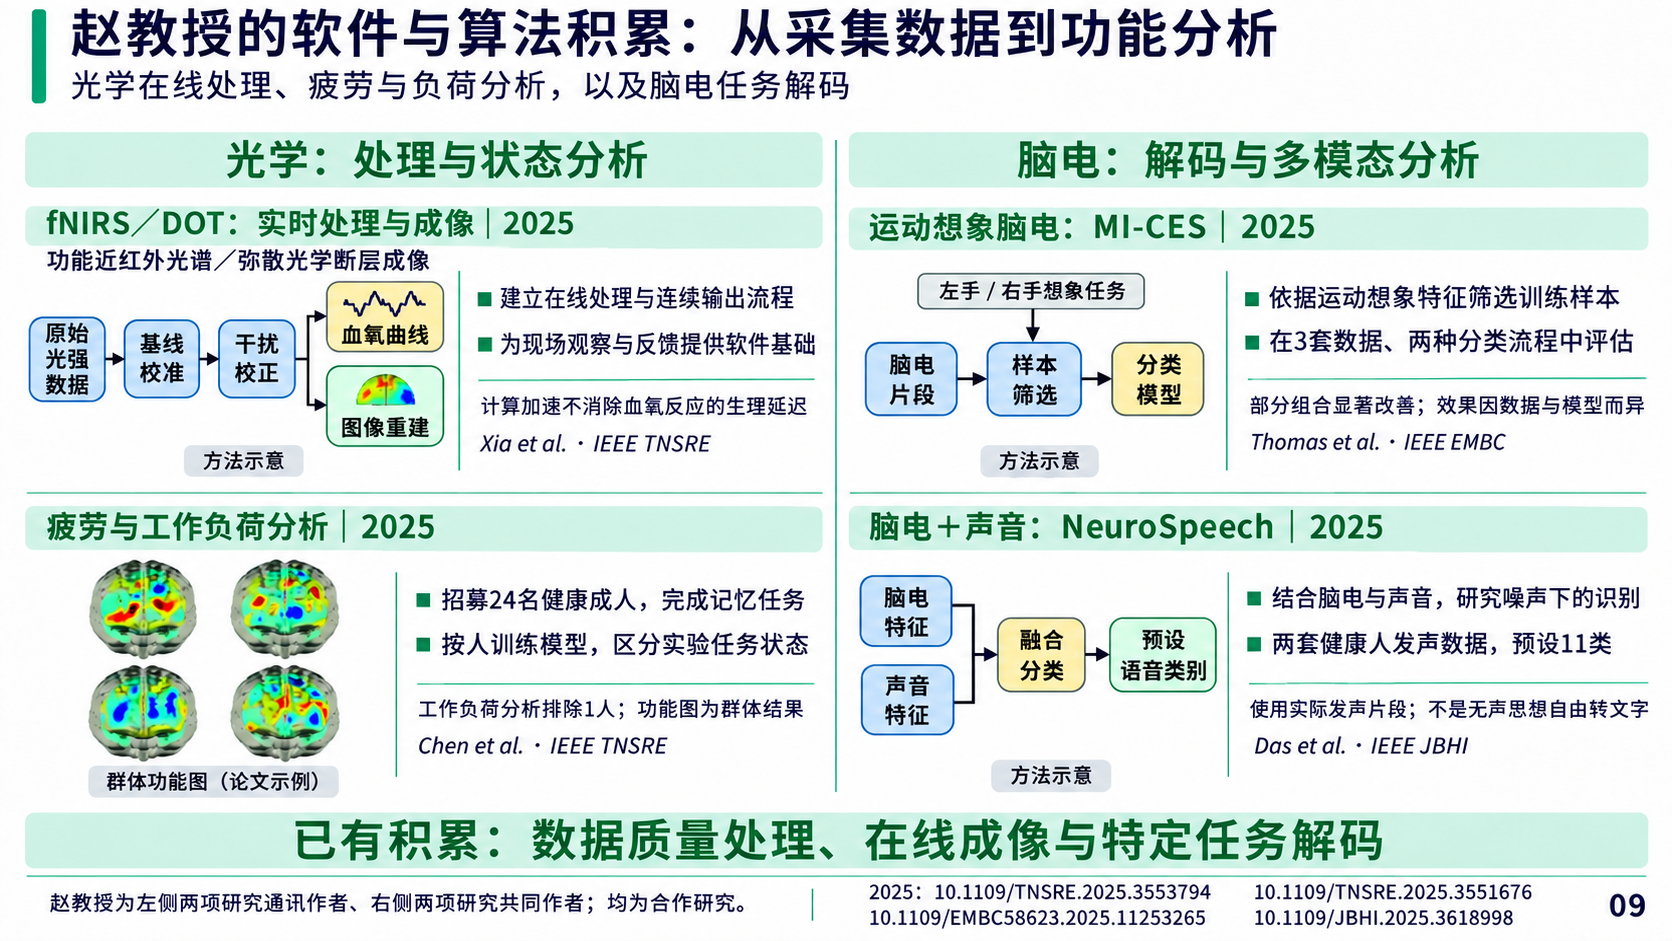
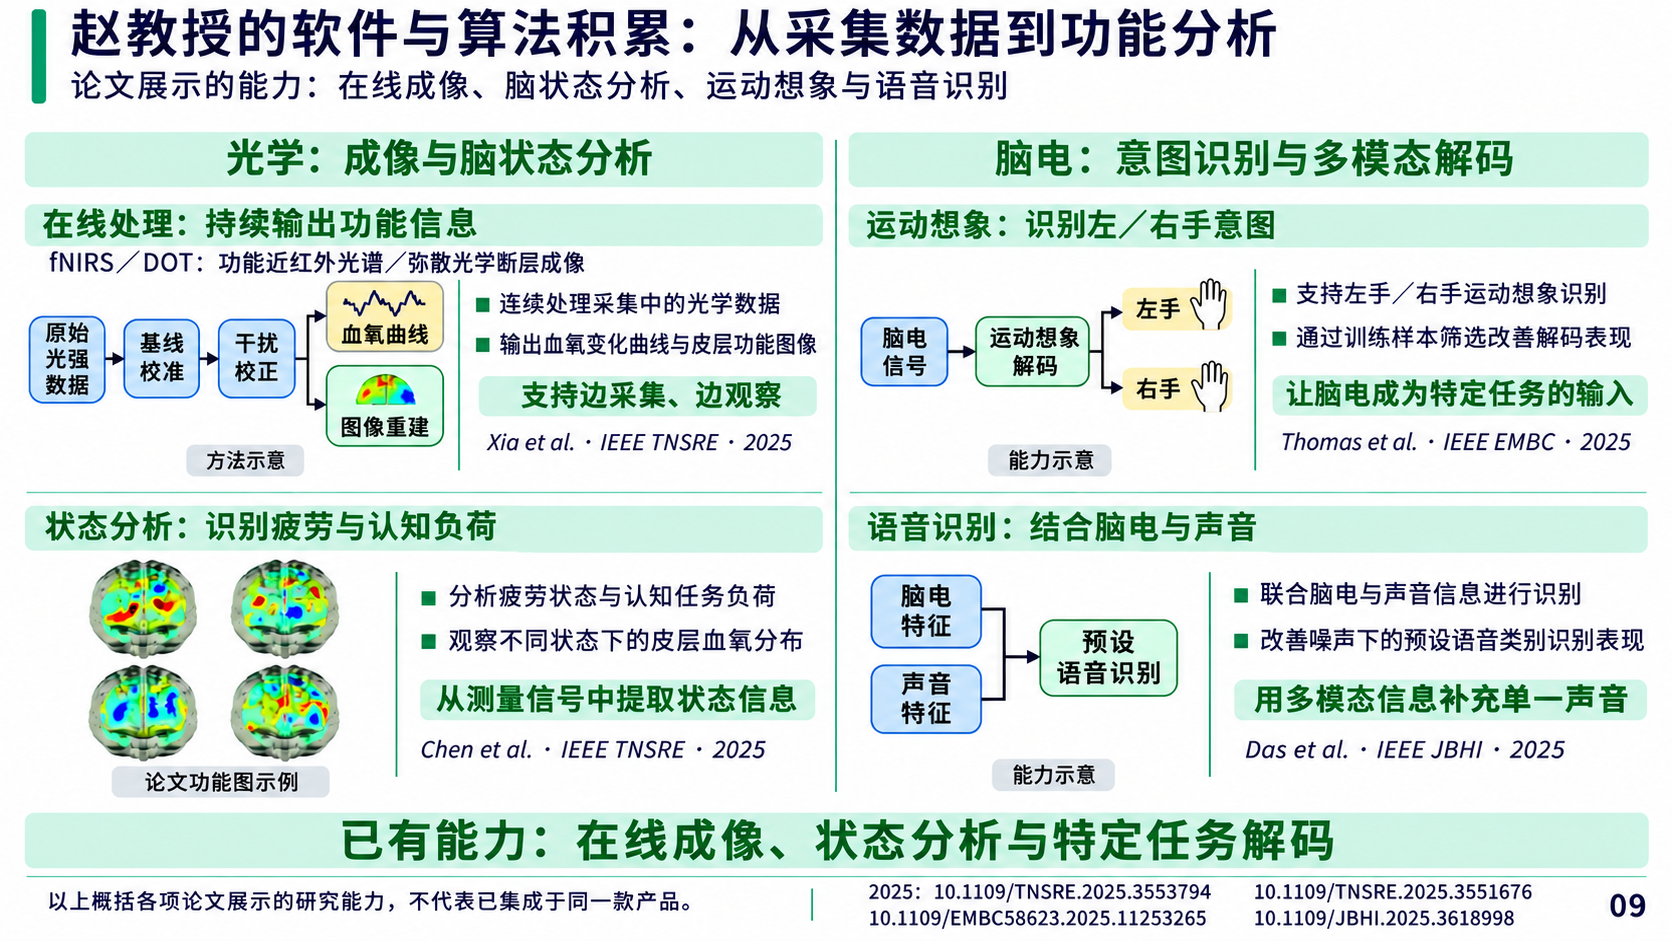
Finalize capability-focused slide 9 and speaker notes

diff --git a/presentations/09_定稿/第九页讲解稿.html b/presentations/09_定稿/第九页讲解稿.html
@@ -1,1 +1,1 @@
-<!doctype html><html lang="zh-CN"><meta charset="utf-8"><title>赵教授的软件与算法积累：从采集数据到功能分析</title><style>body{max-width:960px;margin:40px auto;padding:0 28px;font:19px/1.9 system-ui;color:#101936}h1{font-size:32px}a{color:#008e80}img{width:100%}small{color:#52616e}</style><h1>赵教授的软件与算法积累：从采集数据到功能分析</h1><img src="第九页_赵教授软件与算法积累.png"><p>上一页介绍了设备硬件。这一页继续回答：设备采到数据以后，赵教授参与的研究，已经能够怎样处理和分析这些数据？</p><p>左边是光学研究，右边是脑电研究。四项工作分别解决不同的问题，并不代表它们已经全部集成在同一款设备中。</p><p>先看左上角，实时处理与成像。</p><p>功能近红外光谱，也就是fNIRS，以及弥散光学断层成像DOT，采到的原始数据首先是光强变化。要得到血氧曲线和功能图像，还需要经过校准、干扰处理和图像重建。</p><p>赵教授作为通讯作者参与的这项研究，将这些步骤组织成了在线处理流程：先建立测量基线，再用模型校正运动造成的干扰，随后持续输出血氧变化和重建图像。论文使用了Gowerlabs LUMO设备采集的数据。</p><p>这项工作的意义，是让数据能够随着采集不断处理，为现场观察和后续反馈提供软件基础。不过，计算处理变快，并不意味着血氧反应本身的生理延迟消失了。</p><p>再看左下角，疲劳与工作负荷分析。</p><p>这项研究招募了24名健康成人，通过不同难度的记忆任务改变工作负荷，并比较任务前后的疲劳状态，同时记录反应时间、主观评分和HD-DOT信号。</p><p>研究包含两类分析：一类从测量信号中提取特征，用模型区分实验中的状态；另一类重建群体功能图，观察不同状态下血氧变化的空间分布。</p><p>这里的分类模型是针对每个人分别训练的，工作负荷分析还排除了1人的受干扰数据。因此，它体现的是在明确任务和实验条件下，将光学测量转化为状态信息的研究能力。</p><p>接下来是右侧的脑电研究。EEG的英文全称是Electroencephalography，中文是脑电图。</p><p>右上角的MI-CES，研究的是运动想象脑机接口中的训练样本选择。运动想象，就是按照提示想象左手或右手运动。</p><p>这里有一个实际问题：提示要求使用者想象左手运动，并不意味着这段时间采到的每个脑电片段，都包含清晰的左手运动想象特征。如果把所有片段都按提示直接标记、拿去训练，就可能影响分类模型。</p><p>这项研究依据运动想象的神经生理特征，筛选更合适的样本，并在三套数据、两种分类流程中评估。部分组合取得了显著改善，但效果随数据和模型而变化。它体现的是脑电训练数据筛选与解码方法的积累。</p><p>右下角的NeuroSpeech，则研究另一种信息组合：脑电加声音。</p><p>研究使用两套健康人实际发声的数据，将脑电特征与声音特征共同输入模型，识别预先设定的语音类别，并考察加入噪声后的表现。论文报告，这种组合在所测试条件下改善了识别表现。</p><p>这里的多模态，是脑电与声音的结合；使用的也是实际发声片段，而不是把一个人没有说出口的任意想法直接转成文字。它说明赵教授也参与了脑电特征提取、多模态融合和语音任务解码研究。</p><p>结合上一页，我们现在可以更完整地理解赵教授的技术积累：硬件方面涉及可穿戴光学设备、佩戴结构和空间定位；软件方面涉及数据质量处理、在线成像，以及光学和脑电的特定任务分析。</p><p>下一页再回到BP，看这些研究积累准备怎样组成当前项目的光电系统，以及目前已经完成到了哪一步。</p><h2>参考链接（不朗读）</h2><ul><li><a href="https://doi.org/10.1109/TNSRE.2025.3553794">实时处理：Xia et al., IEEE TNSRE, 2025</a></li><li><a href="https://doi.org/10.1109/TNSRE.2025.3551676">疲劳与工作负荷：Chen et al., IEEE TNSRE, 2025</a></li><li><a href="https://doi.org/10.1109/EMBC58623.2025.11253265">MI-CES：Thomas et al., IEEE EMBC, 2025</a></li><li><a href="https://doi.org/10.1109/JBHI.2025.3618998">NeuroSpeech：Das et al., IEEE JBHI, 2025</a></li></ul><small>图片由图像生成工具依据论文图示排版，方法流程经过简化；功能图参考Chen et al. Fig.11，非原始数据图的逐像素拼版。按用户补充意见，左上角增加fNIRS／DOT名称、中文全称及原始光强输入。</small></html>
+<!doctype html><html lang="zh-CN"><meta charset="utf-8"><title>赵教授的软件与算法积累：从采集数据到功能分析</title><style>body{max-width:960px;margin:40px auto;padding:0 28px;font:19px/1.9 system-ui;color:#101936}h1{font-size:32px}a{color:#008e80}img{width:100%}small{color:#52616e}</style><h1>赵教授的软件与算法积累：从采集数据到功能分析</h1><img src="第九页_赵教授软件与算法积累.png"><p>上一页介绍了赵教授在设备硬件方面的积累。这一页看软件与算法：采到数据以后，能够从中得到什么信息？</p><p>这些研究主要展示了四方面能力。</p><p>首先，是光学数据的在线处理与成像。</p><p>功能近红外光谱，也就是fNIRS，以及弥散光学断层成像DOT，采集到的原始数据是光强变化。通过校准、干扰校正和图像重建，可以把这些数据转换成血氧变化曲线和皮层功能图像。</p><p>赵教授参与的研究，已经将这些步骤组织成在线处理流程。它提供的能力是：在数据不断采集的过程中，持续输出可以观察和分析的功能信息。这为现场监测和后续反馈提供了软件基础。</p><p>其次，是分析疲劳与认知负荷。</p><p>这里不仅能得到血氧曲线，还能从信号中提取特征，区分研究条件下的疲劳状态和认知任务负荷，并通过功能图观察相应的皮层血氧分布。</p><p>这意味着，研究已经向“这些测量变化能够反映什么状态”推进了一步。它为后续设计脑状态评估、训练反馈等产品提供了分析方法。</p><p>第三，是脑电中的运动想象识别。</p><p>EEG，也就是脑电图，可以用于识别特定的运动想象，例如想象左手或右手运动。</p><p>赵教授参与的MI-CES研究，进一步通过筛选更合适的训练样本，改善部分条件下的解码表现。这方面的积累，使脑电能够成为特定交互任务的输入：系统根据脑电，判断使用者正在进行哪一种预设的运动想象。</p><p>第四，是将脑电与声音结合，支持语音识别。</p><p>NeuroSpeech研究将脑电特征和声音特征共同用于识别，改善了所测试条件下、尤其是加入噪声后的预设语音类别识别表现。</p><p>它展示的是多模态解码能力：当单一声音信息受到干扰时，尝试利用脑电提供补充信息。这里结合的是脑电与声音。</p><p>所以，赵教授的软件与算法积累，已经涉及在线成像、脑状态分析，以及特定任务的识别与解码。</p><p>这些能力与上一页的硬件积累结合起来，构成了项目的研究基础。下一页再看BP准备怎样将它们组织成一套系统，以及哪些已经实现、哪些仍是规划。</p><h2>参考链接（不朗读）</h2><ul><li><a href="https://doi.org/10.1109/TNSRE.2025.3553794">实时处理论文</a></li><li><a href="https://doi.org/10.1109/TNSRE.2025.3551676">疲劳与负荷论文</a></li><li><a href="https://doi.org/10.1109/EMBC58623.2025.11253265">MI-CES论文</a></li><li><a href="https://doi.org/10.1109/JBHI.2025.3618998">NeuroSpeech论文</a></li></ul><small>定稿采用能力表达版。实验人数、数据集与评估流程保留在研究资料，不占正文。图片依据论文图示生成排版，功能图参考Chen et al. Fig.11，非原始数据图逐像素拼版。四项为独立合作研究，不表示同一整机已全部集成。</small></html>

diff --git a/presentations/PPT与讲稿整合稿.md b/presentations/PPT与讲稿整合稿.md
@@ -597,7 +597,7 @@ Neuralink和Synchron受到关注，是因为它们展示了新的交流和控制
 
 ## 第9页｜赵教授的软件与算法积累：从采集数据到功能分析
 
-**状态：图片与讲稿定稿；图片补充原始光强输入。**
+**状态：图片与讲稿定稿，采用能力表达版。**
 
 ### PPT图片
 
@@ -605,54 +605,48 @@ Neuralink和Synchron受到关注，是因为它们展示了新的交流和控制
 
 ### 讲稿
 
-上一页介绍了设备硬件。这一页继续回答：设备采到数据以后，赵教授参与的研究，已经能够怎样处理和分析这些数据？
+上一页介绍了赵教授在设备硬件方面的积累。这一页看软件与算法：采到数据以后，能够从中得到什么信息？
 
-左边是光学研究，右边是脑电研究。四项工作分别解决不同的问题，并不代表它们已经全部集成在同一款设备中。
+这些研究主要展示了四方面能力。
 
-先看左上角，实时处理与成像。
+首先，是光学数据的在线处理与成像。
 
-功能近红外光谱，也就是fNIRS，以及弥散光学断层成像DOT，采到的原始数据首先是光强变化。要得到血氧曲线和功能图像，还需要经过校准、干扰处理和图像重建。
+功能近红外光谱，也就是fNIRS，以及弥散光学断层成像DOT，采集到的原始数据是光强变化。通过校准、干扰校正和图像重建，可以把这些数据转换成血氧变化曲线和皮层功能图像。
 
-赵教授作为通讯作者参与的这项研究，将这些步骤组织成了在线处理流程：先建立测量基线，再用模型校正运动造成的干扰，随后持续输出血氧变化和重建图像。论文使用了Gowerlabs LUMO设备采集的数据。
+赵教授参与的研究，已经将这些步骤组织成在线处理流程。它提供的能力是：在数据不断采集的过程中，持续输出可以观察和分析的功能信息。这为现场监测和后续反馈提供了软件基础。
 
-这项工作的意义，是让数据能够随着采集不断处理，为现场观察和后续反馈提供软件基础。不过，计算处理变快，并不意味着血氧反应本身的生理延迟消失了。
+其次，是分析疲劳与认知负荷。
 
-再看左下角，疲劳与工作负荷分析。
+这里不仅能得到血氧曲线，还能从信号中提取特征，区分研究条件下的疲劳状态和认知任务负荷，并通过功能图观察相应的皮层血氧分布。
 
-这项研究招募了24名健康成人，通过不同难度的记忆任务改变工作负荷，并比较任务前后的疲劳状态，同时记录反应时间、主观评分和HD-DOT信号。
+这意味着，研究已经向“这些测量变化能够反映什么状态”推进了一步。它为后续设计脑状态评估、训练反馈等产品提供了分析方法。
 
-研究包含两类分析：一类从测量信号中提取特征，用模型区分实验中的状态；另一类重建群体功能图，观察不同状态下血氧变化的空间分布。
+第三，是脑电中的运动想象识别。
 
-这里的分类模型是针对每个人分别训练的，工作负荷分析还排除了1人的受干扰数据。因此，它体现的是在明确任务和实验条件下，将光学测量转化为状态信息的研究能力。
+EEG，也就是脑电图，可以用于识别特定的运动想象，例如想象左手或右手运动。
 
-接下来是右侧的脑电研究。EEG的英文全称是Electroencephalography，中文是脑电图。
+赵教授参与的MI-CES研究，进一步通过筛选更合适的训练样本，改善部分条件下的解码表现。这方面的积累，使脑电能够成为特定交互任务的输入：系统根据脑电，判断使用者正在进行哪一种预设的运动想象。
 
-右上角的MI-CES，研究的是运动想象脑机接口中的训练样本选择。运动想象，就是按照提示想象左手或右手运动。
+第四，是将脑电与声音结合，支持语音识别。
 
-这里有一个实际问题：提示要求使用者想象左手运动，并不意味着这段时间采到的每个脑电片段，都包含清晰的左手运动想象特征。如果把所有片段都按提示直接标记、拿去训练，就可能影响分类模型。
+NeuroSpeech研究将脑电特征和声音特征共同用于识别，改善了所测试条件下、尤其是加入噪声后的预设语音类别识别表现。
 
-这项研究依据运动想象的神经生理特征，筛选更合适的样本，并在三套数据、两种分类流程中评估。部分组合取得了显著改善，但效果随数据和模型而变化。它体现的是脑电训练数据筛选与解码方法的积累。
+它展示的是多模态解码能力：当单一声音信息受到干扰时，尝试利用脑电提供补充信息。这里结合的是脑电与声音。
 
-右下角的NeuroSpeech，则研究另一种信息组合：脑电加声音。
+所以，赵教授的软件与算法积累，已经涉及在线成像、脑状态分析，以及特定任务的识别与解码。
 
-研究使用两套健康人实际发声的数据，将脑电特征与声音特征共同输入模型，识别预先设定的语音类别，并考察加入噪声后的表现。论文报告，这种组合在所测试条件下改善了识别表现。
-
-这里的多模态，是脑电与声音的结合；使用的也是实际发声片段，而不是把一个人没有说出口的任意想法直接转成文字。它说明赵教授也参与了脑电特征提取、多模态融合和语音任务解码研究。
-
-结合上一页，我们现在可以更完整地理解赵教授的技术积累：硬件方面涉及可穿戴光学设备、佩戴结构和空间定位；软件方面涉及数据质量处理、在线成像，以及光学和脑电的特定任务分析。
-
-下一页再回到BP，看这些研究积累准备怎样组成当前项目的光电系统，以及目前已经完成到了哪一步。
+这些能力与上一页的硬件积累结合起来，构成了项目的研究基础。下一页再看BP准备怎样将它们组织成一套系统，以及哪些已经实现、哪些仍是规划。
 
 **参考链接（不朗读）**
 
-- [实时处理：Xia et al., IEEE TNSRE, 2025](https://doi.org/10.1109/TNSRE.2025.3553794)
-- [疲劳与工作负荷：Chen et al., IEEE TNSRE, 2025](https://doi.org/10.1109/TNSRE.2025.3551676)
-- [MI-CES：Thomas et al., IEEE EMBC, 2025](https://doi.org/10.1109/EMBC58623.2025.11253265)
-- [NeuroSpeech：Das et al., IEEE JBHI, 2025](https://doi.org/10.1109/JBHI.2025.3618998)
+- [实时处理论文](https://doi.org/10.1109/TNSRE.2025.3553794)
+- [疲劳与负荷论文](https://doi.org/10.1109/TNSRE.2025.3551676)
+- [MI-CES论文](https://doi.org/10.1109/EMBC58623.2025.11253265)
+- [NeuroSpeech论文](https://doi.org/10.1109/JBHI.2025.3618998)
 
-**图片说明（不朗读）**
+**编辑说明（不朗读）**
 
-图片由图像生成工具依据论文图示排版，方法流程经过简化；功能图参考Chen et al. Fig.11，非原始数据图的逐像素拼版。按用户补充意见，左上角增加fNIRS／DOT名称、中文全称及原始光强输入。
+定稿采用能力表达版。实验人数、数据集与评估流程保留在研究资料，不占正文。图片依据论文图示生成排版，功能图参考Chen et al. Fig.11，非原始数据图逐像素拼版。四项为独立合作研究，不表示同一整机已全部集成。
 
 ---
 
